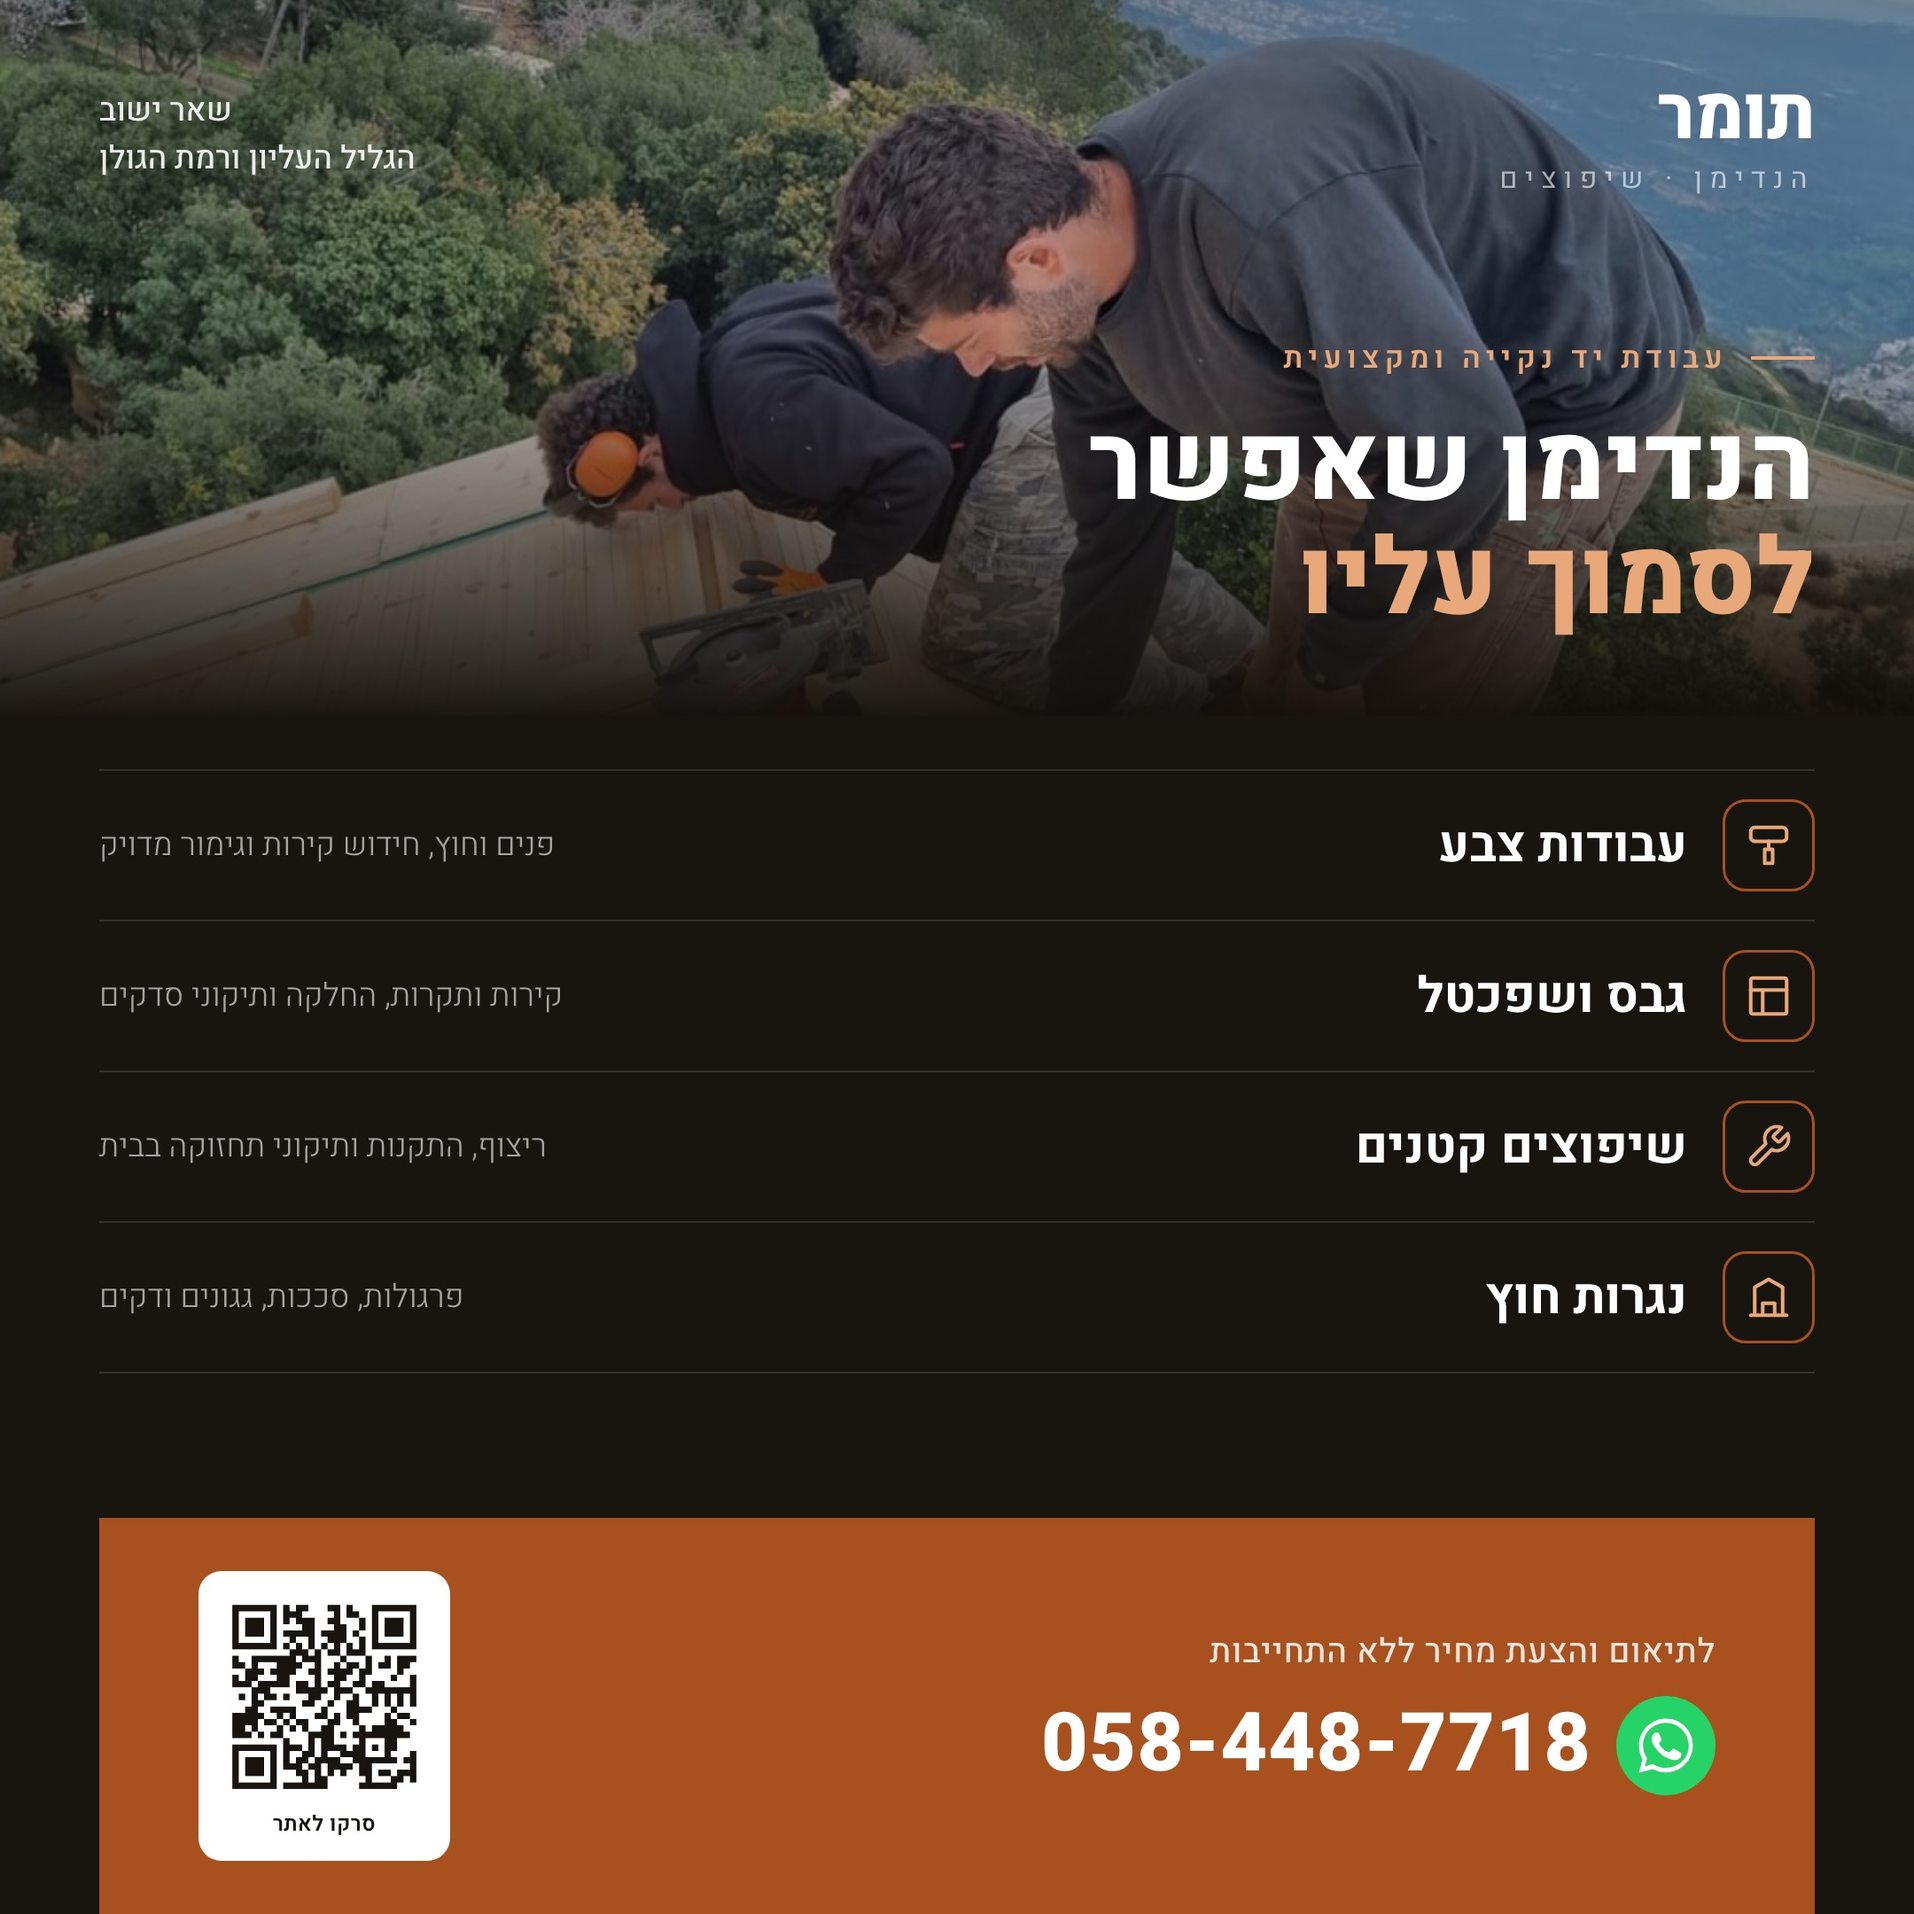
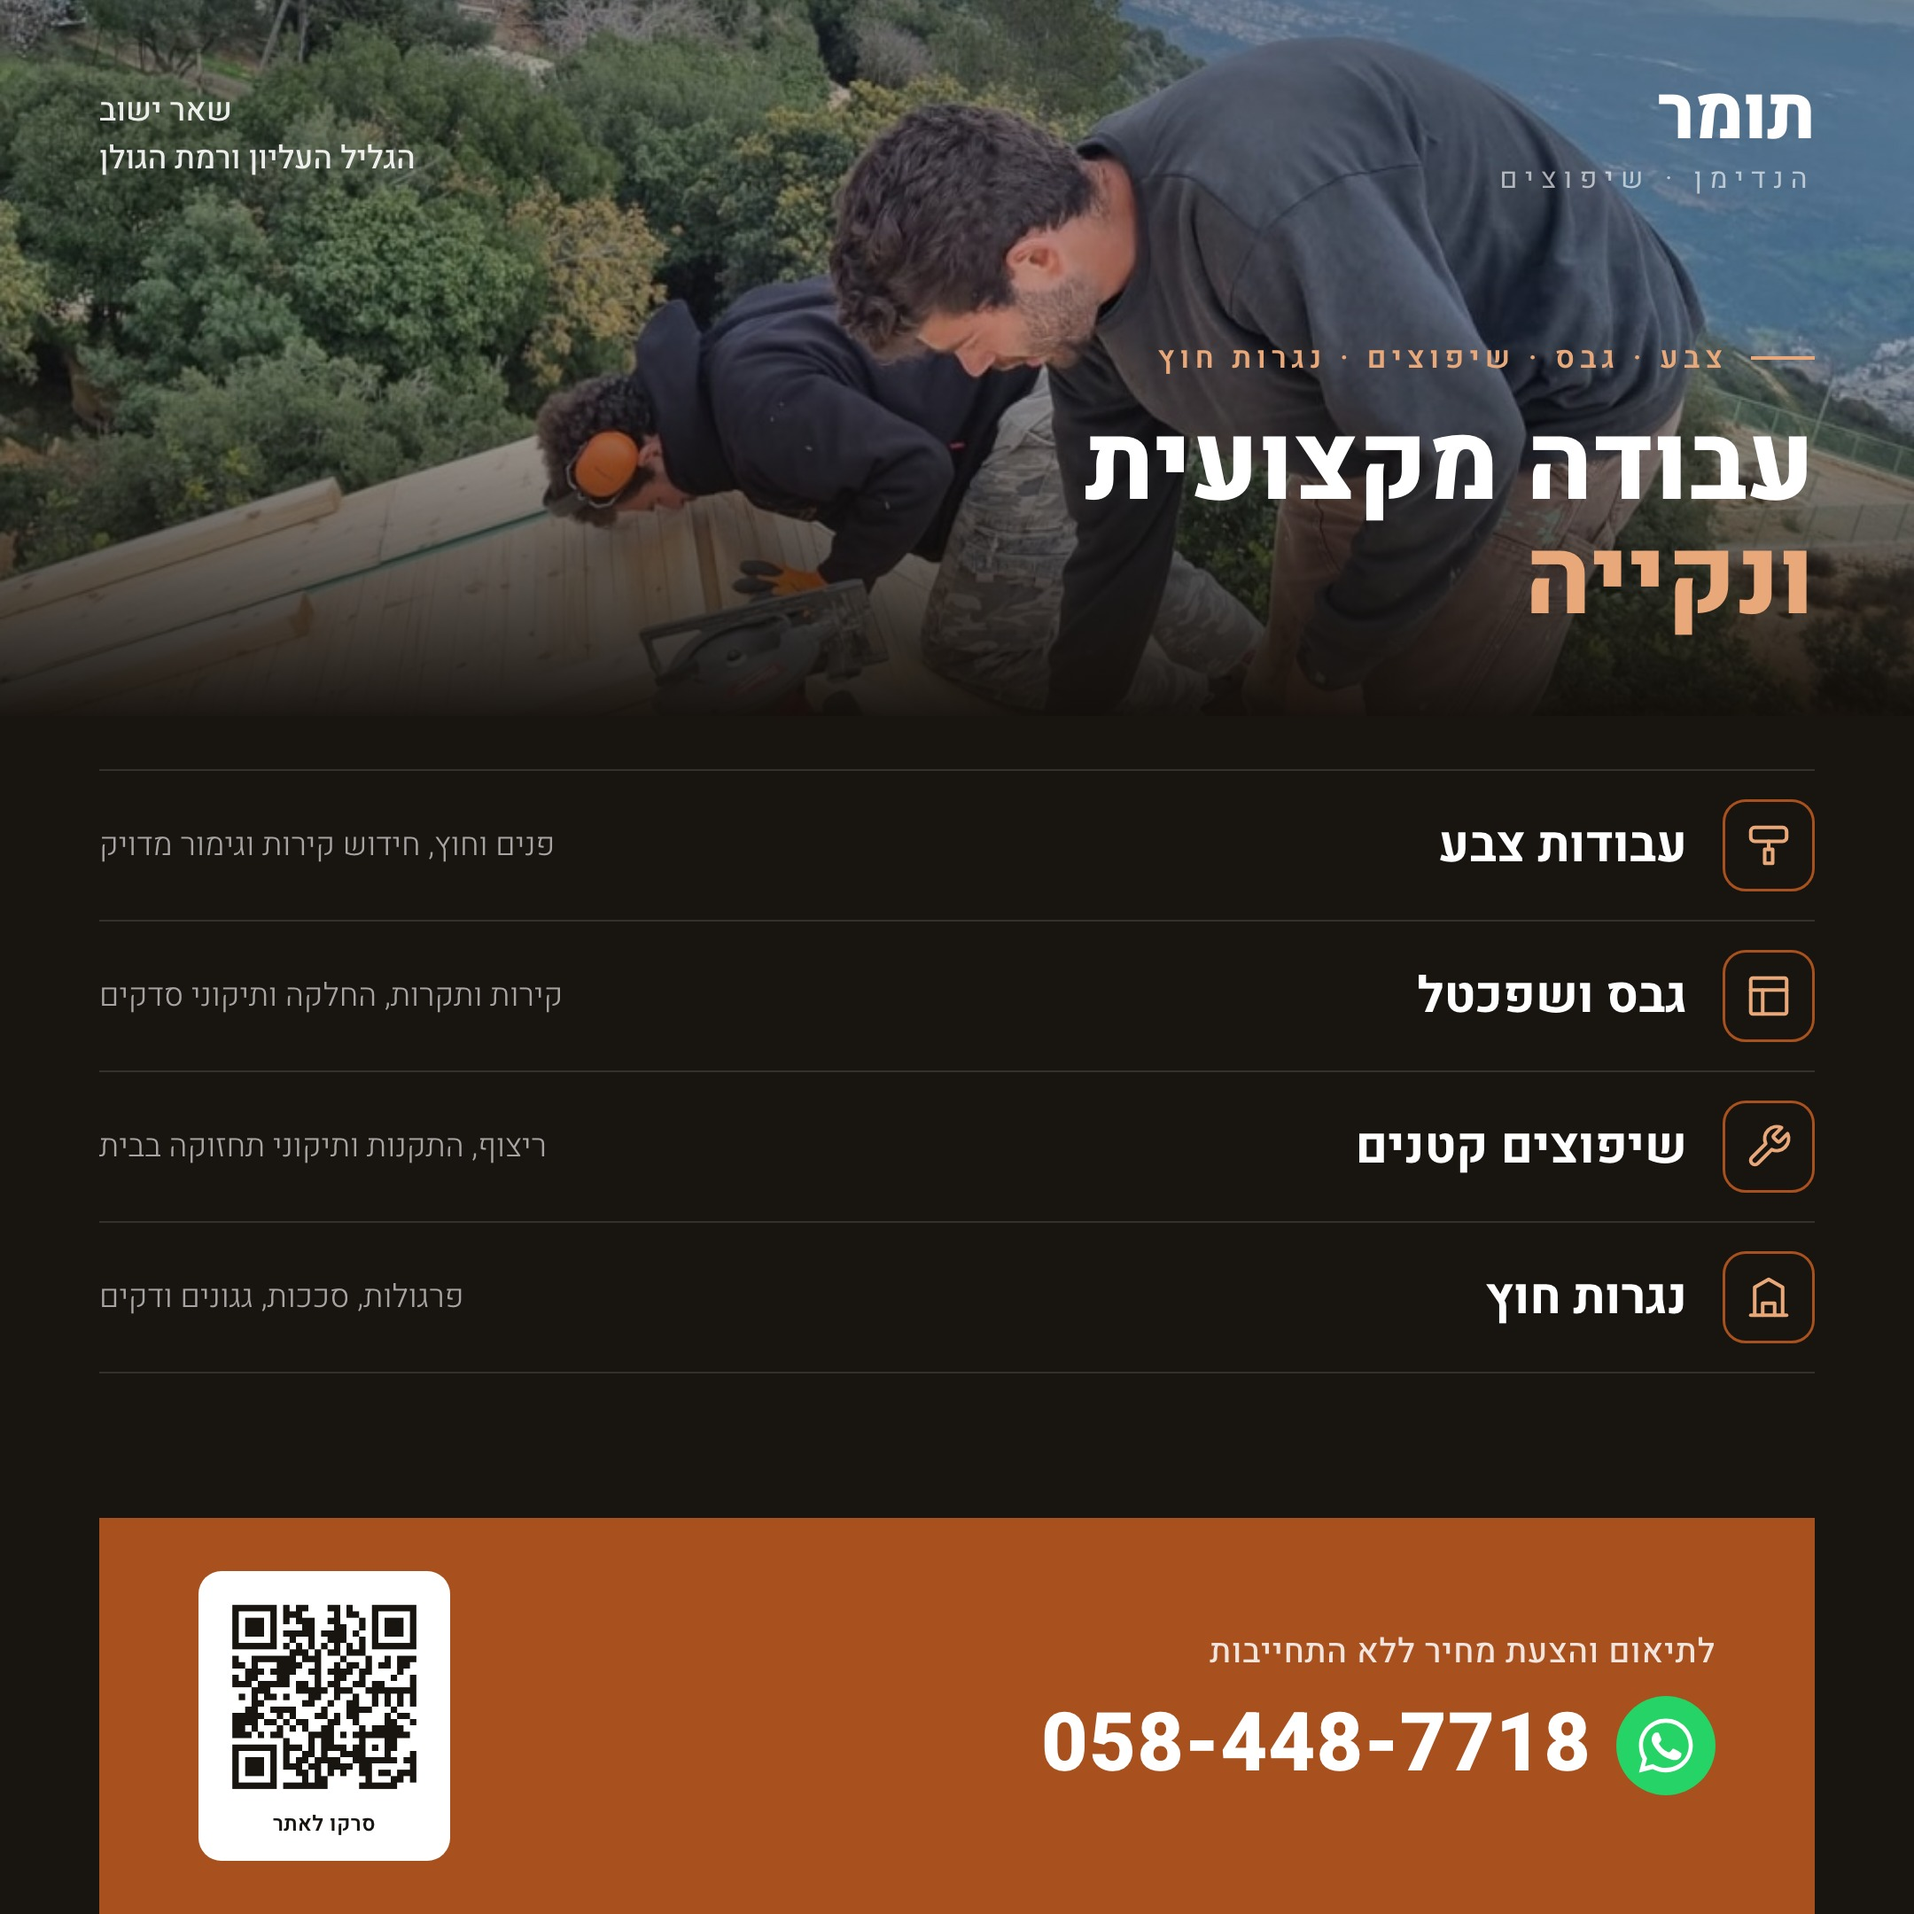
Tomer flyer: headline -> 'עבודה מקצועית ונקייה'; eyebrow -> service list (drop redundant/old wording)

Changed region(s): [[0.5583, 0.1861, 0.9616, 0.3412]]

diff --git a/public/tomer/flyer.html b/public/tomer/flyer.html
@@ -71,8 +71,8 @@ body{font-family:'Heebo',sans-serif;-webkit-font-smoothing:antialiased}
         <div class="loc">שאר ישוב<br>הגליל העליון ורמת הגולן</div>
       </div>
       <div>
-        <span class="eyebrow">עבודת יד נקייה ומקצועית</span>
-        <h1 class="headline">הנדימן שאפשר<br><em>לסמוך עליו</em></h1>
+        <span class="eyebrow">צבע · גבס · שיפוצים · נגרות חוץ</span>
+        <h1 class="headline">עבודה מקצועית<br><em>ונקייה</em></h1>
       </div>
     </div>
   </div>
